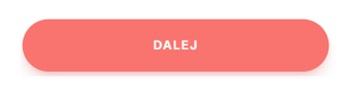
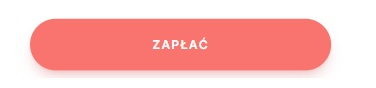
wszystko w GUI oprócz avatara

Changed region(s): [[0.0615, 0.2045, 0.9218, 0.8636], [0.3994, 0.4091, 0.5531, 0.5682]]

diff --git a/src/GUI/PackHistory.java b/src/GUI/PackHistory.java
@@ -1,0 +1,65 @@
+package GUI;
+import javax.swing.*;
+
+public class PackHistory extends JFrame{
+
+   public PackHistory(MenuWindow menu)
+    {
+        setTitle("Historia Twoich paczek");
+        setSize(800,820);
+        setLayout(null);
+        // setDefaultCloseOperation(JFrame.EXIT_ON_CLOSE);
+        setResizable(false);
+        setVisible(false);
+
+        ImageIcon tlo =new ImageIcon("src/resources/packhistory.jpg");
+        ImageIcon d = new ImageIcon("src/resources/menukliknietev3.jpg");
+        ImageIcon e = new ImageIcon("src/resources/reklamacjaKlikniete.jpg");
+
+        JLabel background = new JLabel(tlo);
+        JLabel menuKlikniete = new JLabel(d);
+        JLabel reklamacjaKlikniete = new JLabel(e);
+
+        background.setBounds(-40,-40,872,878);
+        background.setLayout(null);
+        add(background);
+        background.setVisible(true);
+
+
+        background.addMouseListener(new java.awt.event.MouseAdapter() {
+            public void mouseClicked(java.awt.event.MouseEvent e) {
+                System.out.println("X: " + e.getX() + " Y: " + e.getY());
+            }
+        });
+
+
+
+
+        JButton reklamacjaKliknieteButton = SendPackWindow.createButton(333, 678, 220, 62, "");
+        background.add(reklamacjaKliknieteButton);
+        SendPackWindow.placeBlady(330, 671, 225, 70, reklamacjaKlikniete);
+        SendPackWindow.mouseListenerIMG(reklamacjaKliknieteButton, reklamacjaKlikniete);
+        reklamacjaKliknieteButton.addMouseListener(new java.awt.event.MouseAdapter() {
+            public void mouseClicked(java.awt.event.MouseEvent e) {
+                System.out.println("tutaj kiedys bedzie formularz reklamacyjny");
+               // setVisible(false);
+                //menu.setVisible(true);
+            }
+        });
+        background.add(reklamacjaKlikniete);
+
+
+
+        JButton menuKliknieteButton = SendPackWindow.createButton(360, 747, 168, 48, "");
+        background.add(menuKliknieteButton);
+        SendPackWindow.placeBlady(360, 747, 168, 48, menuKlikniete);
+        SendPackWindow.mouseListenerIMG(menuKliknieteButton, menuKlikniete);
+        menuKliknieteButton.addMouseListener(new java.awt.event.MouseAdapter() {
+            public void mouseClicked(java.awt.event.MouseEvent e) {
+                setVisible(false);
+                menu.setVisible(true);
+            }
+        });
+        background.add(menuKlikniete);
+    }
+}

diff --git a/src/GUI/UserProfileWindow.java b/src/GUI/UserProfileWindow.java
@@ -3,7 +3,10 @@ import Utils.Utils;
 
 import javax.swing.*;
 public class UserProfileWindow extends JFrame {
-    UserProfileWindow(SendPackWindow SendPack,FollowPackWindow follow, MenuWindow menu){
+
+
+
+    UserProfileWindow(SendPackWindow SendPack,FollowPackWindow follow, MenuWindow menu, PackHistory paczka){
         Utils util=new Utils();
 
         setTitle("Profil użytkownika");
@@ -65,7 +68,14 @@ public class UserProfileWindow extends JFrame {
         JButton przycisk = SendPackWindow.createButton(255,580,325,45,"");
         background.add(przycisk);
         SendPackWindow.placeBlady(251,578,345,50, historiaButton);
+        przycisk.addMouseListener(new java.awt.event.MouseAdapter() {
+            public void mouseClicked(java.awt.event.MouseEvent e) {
+                setVisible(false);
+                paczka.setVisible(true);
+            }
+        });
         background.add(historiaButton);
+
 
         JButton przycisk2 = SendPackWindow.createButton(355,710,130,37,"");
         background.add(przycisk2);

diff --git a/src/GUI/SendPackWindow.java b/src/GUI/SendPackWindow.java
@@ -175,9 +175,15 @@ public class SendPackWindow extends JFrame {
         background.add(przyciskGab3);
         background.add(cButton);
         placeBlady(460, 167, 100, 85, cButton);
-        JButton przyciskDalej = createButton(240, 590, 253, 53, "");
+
+        JButton przyciskDalej = createButton(234, 591, 333, 53, "");
         background.add(przyciskDalej);
-        placeBlady(235, 588, 340, 60, dalejButton);
+        przyciskDalej.addMouseListener(new java.awt.event.MouseAdapter() {
+            public void mouseClicked(java.awt.event.MouseEvent e) {
+                System.out.println("tutaj kiedyś będzie płatność");
+            }
+        });
+        placeBlady(227, 588, 350, 65, dalejButton);
         background.add(dalejButton);
 
         JButton menuKliknieteButton = createButton(321, 676, 162, 39, "");

diff --git a/src/GUI/MenuWindow.java b/src/GUI/MenuWindow.java
@@ -16,7 +16,9 @@ return x;
 
         SendPackWindow SendPack = new SendPackWindow(this);
         FollowPackWindow follow = new FollowPackWindow(this);
-        UserProfileWindow UserProfile = new UserProfileWindow(SendPack, follow, this);
+        PackHistory paczka = new PackHistory(this);
+        UserProfileWindow UserProfile = new UserProfileWindow(SendPack, follow, this, paczka);
+
 
 loginNamee=loginName;
 
@@ -165,6 +167,8 @@ loginNamee=loginName;
         });
         packsButton.addActionListener(e -> {
             System.out.println("Kliknieto paczki");
+            paczka.setVisible(true);
+            setVisible(false);
         });
         packsButton.setBorder(null);
         packsButton.setOpaque(false);

diff --git a/src/Main.java b/src/Main.java
@@ -1,6 +1,7 @@
 import GUI.LoginWindow;
 import GUI.MenuWindow;
 import GUI.FollowPackWindow;
+import GUI.PackHistory;
 import service.UserService;
 
 import java.util.Scanner;
@@ -23,6 +24,9 @@ okno.setVisible(true);
 //FollowPackWindow follow = new FollowPackWindow();
 //follow.setVisible(true);
         //uS.logging("jas","kapela");
+        //PackHistory paczka =new PackHistory(MenuWindow menu);
+        //paczka.setVisible(true);
+
 
     }}
 
